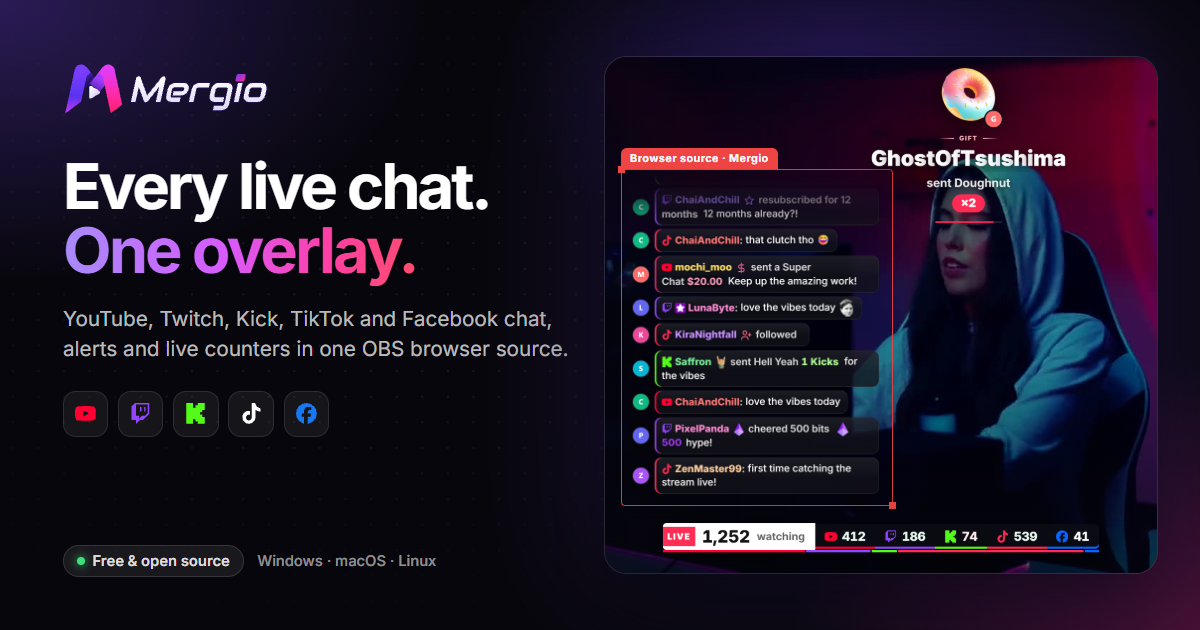
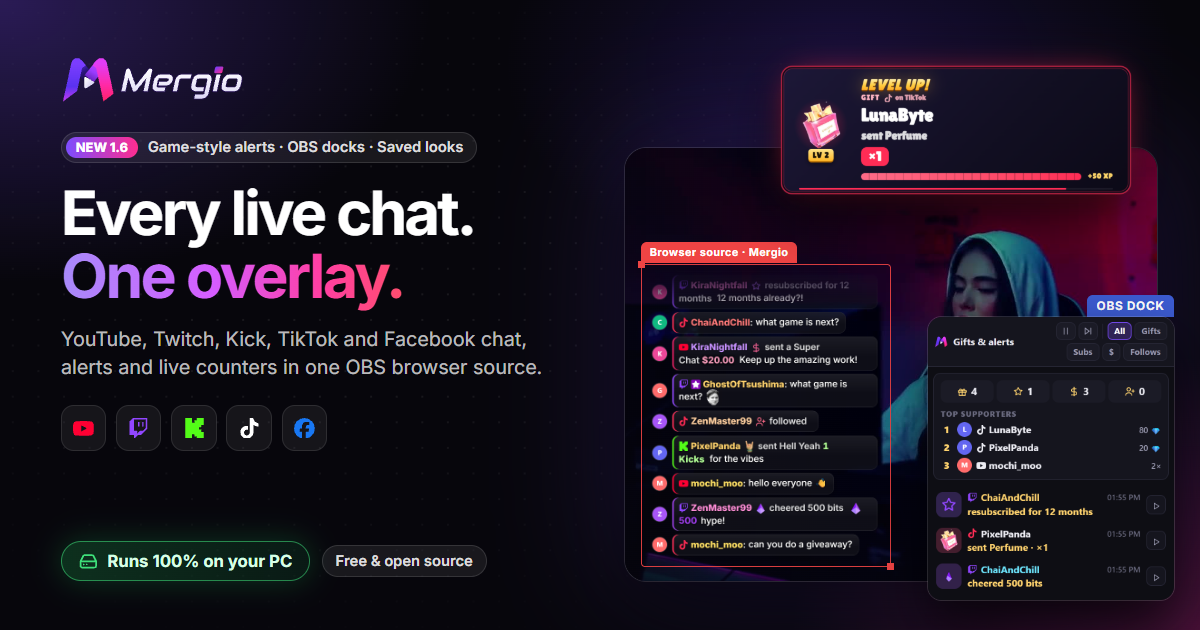
New link preview for 1.6
The picture shown when the site's link is shared now has the 1.6
features (a Level up alert and the Gifts dock, from the real app) and
says Mergio runs 100% on your PC. The image link has ?v=1.6 so sites
that cached the old picture fetch the new one.

diff --git a/website/index.html b/website/index.html
@@ -21,16 +21,16 @@
     <meta property="og:locale" content="en_US" />
     <meta property="og:url" content="https://mergio-stream-overlay-gamma.vercel.app/" />
     <meta property="og:site_name" content="Mergio" />
-    <meta property="og:image" content="https://mergio-stream-overlay-gamma.vercel.app/og.png" />
+    <meta property="og:image" content="https://mergio-stream-overlay-gamma.vercel.app/og.png?v=1.6" />
     <meta property="og:image:width" content="1200" />
     <meta property="og:image:height" content="630" />
     <meta property="og:image:type" content="image/png" />
-    <meta property="og:image:alt" content="Mergio: every live chat in one overlay" />
+    <meta property="og:image:alt" content="Mergio: every live chat in one overlay, with game-style alerts and OBS docks. Runs 100% on your PC." />
     <meta name="twitter:card" content="summary_large_image" />
     <meta name="twitter:title" content="Mergio · Free multistream chat overlay for OBS" />
     <meta name="twitter:description" content="Merge YouTube, Twitch, Kick, TikTok and Facebook live chat into one OBS overlay with game-style alerts and OBS docks. Free, open source, runs on your own PC." />
-    <meta name="twitter:image:alt" content="Mergio: every live chat in one overlay" />
-    <meta name="twitter:image" content="https://mergio-stream-overlay-gamma.vercel.app/og.png" />
+    <meta name="twitter:image:alt" content="Mergio: every live chat in one overlay, with game-style alerts and OBS docks. Runs 100% on your PC." />
+    <meta name="twitter:image" content="https://mergio-stream-overlay-gamma.vercel.app/og.png?v=1.6" />
     <link rel="canonical" href="https://mergio-stream-overlay-gamma.vercel.app/" />
     <link rel="preconnect" href="https://fonts.googleapis.com" />
     <link rel="preconnect" href="https://fonts.gstatic.com" crossorigin />
